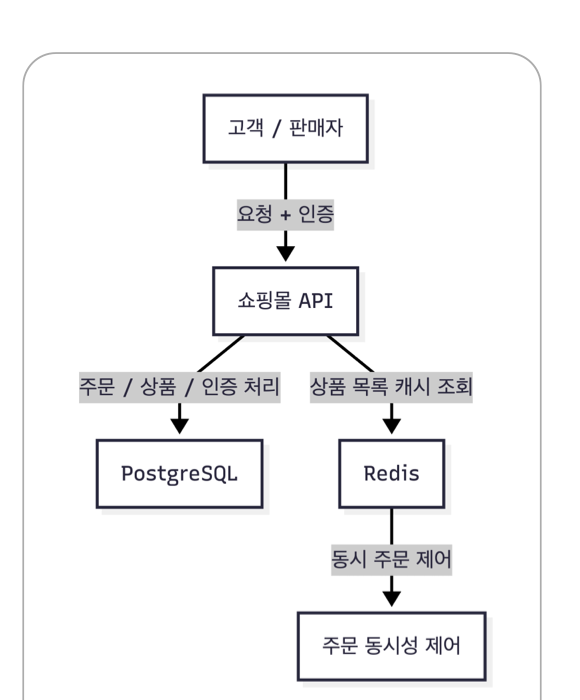
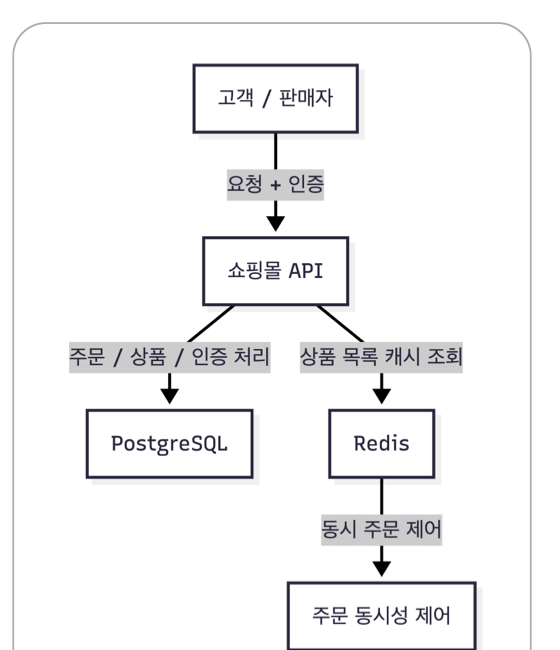
Pull architecture diagrams upward

diff --git a/styles.css b/styles.css
@@ -413,7 +413,7 @@ a {
   display: grid;
   align-content: start;
   justify-items: center;
-  padding: 12px 16px 16px;
+  padding: 8px 10px 12px;
 }
 
 .visual-card img,
@@ -446,7 +446,7 @@ a {
 }
 
 .visual-card figcaption {
-  margin-top: 10px;
+  margin-top: 6px;
   color: var(--muted);
   text-align: center;
   font-size: 0.98rem;
